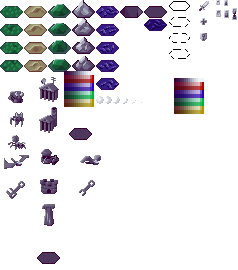
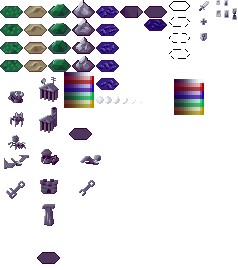
no outlines (recolour sprites instead)

Changed region(s): [[0.2647, 0.237, 0.3824, 0.4148], [0.7353, 0.2667, 0.8529, 0.4444]]

diff --git a/README.md b/README.md
@@ -221,12 +221,10 @@ As the action of their Temple-tron, a player can perform a ritualistic sacrifice
 
  - QA
    - map - "none" terrain
-   - no outlines!
    - RMB - cancel turn
-   - HP bars - toggle with Tab / button - segmented - neutral colour
-   - MP bars - no MP bar - moved / acted indicator
+   - HP bars - toggle with Tab / button
+   - moved / acted indicator
    - neutral units - capture?
-   - action overlay - single colour?
    - capture - not instant - building HP, capture consecutively with single unit
      - capture - first into neutral (half the time), then into own
    - action - click to show action stats + button
@@ -235,7 +233,6 @@ As the action of their Temple-tron, a player can perform a ritualistic sacrifice
      - easily extendable to AIs, local MP or even MP-over-server
    - view - animations, sprites, visual effects ...
  - model
-   x hex grid map
    - AI
    - balancing
      - unit types, stats
